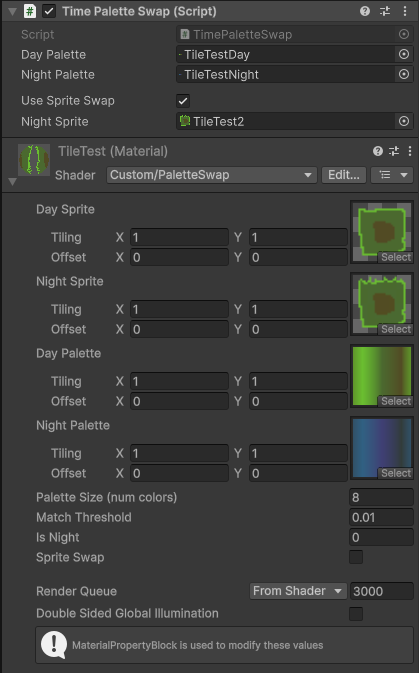
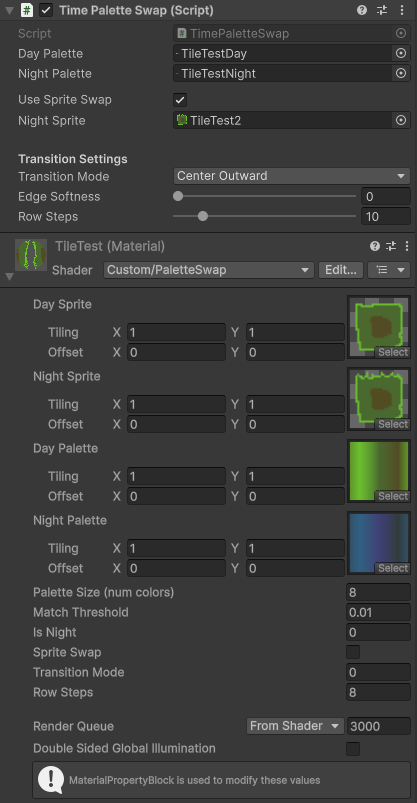
Added Transition Effects Added Image of Manager

diff --git a/PaletteSwapManager.cs b/PaletteSwapManager.cs
@@ -5,20 +5,21 @@ using System;
 public class TimeManager : MonoBehaviour
 {
     public static TimeManager Instance { get; private set; }
-
     public enum TimeState { Day, Night }
-
     public event Action<TimeState> OnTimeSwitched;
 
     [Header("Settings")]
     [SerializeField] private TimeState startingState = TimeState.Day;
     [SerializeField] private Key toggleKey = Key.Tab;
 
-    [Header("Transition (optional)")]
-    [Tooltip("Seconds for a smooth palette lerp. Set to 0 for instant swap.")]
-    [SerializeField] private float transitionDuration = 0f;
+    [Header("Transition")]
+    [Tooltip("Seconds for transition to night. 0 = instant.")]
+    [Range(0f, 10f)] [SerializeField] private float transitionDuration = 0f;
+    [Tooltip("Seconds for transition back to day. 0 = instant. -1 = use Transition Duration.")]
+    [Range(-1f, 10f)] [SerializeField] private float transitionDurationBack = -1f;
 
     public TimeState CurrentState { get; private set; }
+    public event Action<float> OnTransitionProgress;
 
     private bool _transitioning = false;
     private float _transitionTimer = 0f;
@@ -34,15 +35,11 @@ public class TimeManager : MonoBehaviour
         }
         Instance = this;
         DontDestroyOnLoad(gameObject);
-
         CurrentState = startingState;
     }
 
     private void Update()
     {
-        if (Keyboard.current[toggleKey].wasPressedThisFrame)
-            Debug.Log($"[TimeManager] TAB pressed, transitioning: {_transitioning}");
-
         if (Keyboard.current[toggleKey].wasPressedThisFrame && !_transitioning)
             BeginSwitch();
 
@@ -50,11 +47,23 @@ public class TimeManager : MonoBehaviour
             TickTransition();
     }
 
+    private float GetDuration()
+    {
+        if (CurrentState == TimeState.Night)
+        {
+            // Transitioning back to day
+            return transitionDurationBack < 0f ? transitionDuration : transitionDurationBack;
+        }
+        return transitionDuration;
+    }
+
     private void BeginSwitch()
     {
         _targetState = CurrentState == TimeState.Day ? TimeState.Night : TimeState.Day;
 
-        if (transitionDuration <= 0f)
+        float duration = GetDuration();
+
+        if (duration <= 0f)
         {
             // Instant
             ApplyState(_targetState);
@@ -69,12 +78,13 @@ public class TimeManager : MonoBehaviour
 
     private void TickTransition()
     {
+        float duration = GetDuration();
         _transitionTimer += Time.deltaTime;
-        float t = Mathf.Clamp01(_transitionTimer / transitionDuration);
+        float t = Mathf.Clamp01(_transitionTimer / duration);
 
         // Broadcast a normalised progress value so listeners can lerp colours
         OnTransitionProgress?.Invoke(
-            CurrentState == TimeState.Day ? t : 1f - t   // 0 = full day, 1 = full night
+            CurrentState == TimeState.Day ? t : 1f - t  // 0 = full day, 1 = full night
         );
 
         if (t >= 1f)
@@ -87,11 +97,10 @@ public class TimeManager : MonoBehaviour
     private void ApplyState(TimeState newState)
     {
         CurrentState = newState;
+        // Snap the blend weight to a clean value after transition completes
         OnTransitionProgress?.Invoke(newState == TimeState.Night ? 1f : 0f);
         OnTimeSwitched?.Invoke(CurrentState);
     }
-
-    public event Action<float> OnTransitionProgress;
 
     public void SetState(TimeState state)
     {

diff --git a/PaletteSwapper.cs b/PaletteSwapper.cs
@@ -10,6 +10,25 @@ public class PaletteSwapper : MonoBehaviour
     public bool useSpriteSwap = false;
     public Texture2D nightSprite;
 
+    [Space]
+    [Header("Transition Settings")]
+    public TransitionMode transitionMode = TransitionMode.Blend;
+    [Range(0f, 0.5f)] public float edgeSoftness = 0.05f;
+    [Range(1, 64)]    public int rowSteps = 8;
+
+    public enum TransitionMode
+    {
+        Blend            = 0,
+        LeftToRight      = 1,
+        RightToLeft      = 2,
+        TopToBottom      = 3,
+        BottomToTop      = 4,
+        RowByRow         = 5,
+        CenterHorizontal = 6,
+        CenterVertical   = 7,
+        CenterOutward    = 8,
+    }
+
     private Material runtimeMaterial;
 
     private void Start()
@@ -31,6 +50,10 @@ public class PaletteSwapper : MonoBehaviour
         {
             runtimeMaterial.DisableKeyword("_SPRITE_SWAP");
         }
+
+        runtimeMaterial.SetInt("_TransitionMode", (int)transitionMode);
+        runtimeMaterial.SetFloat("_EdgeSoftness", edgeSoftness);
+        runtimeMaterial.SetFloat("_RowSteps", rowSteps);
 
         TimeManager.Instance.OnTimeSwitched += UpdatePalette;
         TimeManager.Instance.OnTransitionProgress += UpdateBlend;

diff --git a/README.md b/README.md
@@ -8,6 +8,8 @@ This project implements a palette swapping system for Unity 2D games, allowing d
 
 <img src="ScreenShots/Shader.png" alt="Shader Setup" width="400">
 
+<img src="ScreenShots/Manager.png" alt="Manager" width="400">
+
 <img src="ScreenShots/ShowOff.gif" alt="Show Off" width="400">
 
 ## Requirements
@@ -19,13 +21,13 @@ This project implements a palette swapping system for Unity 2D games, allowing d
 
 This palette swapping system is designed for pixel-style 2D games (not yet compatible with non-pixel art). It works by replacing colors in a sprite's texture with corresponding colors from a palette texture. Each palette is a 1-pixel high texture where the width represents the number of colors (e.g., 8 colors = 8 pixels wide).
 
-Optionally, sprites can also swap to an entirely different night variant texture during the transition, allowing visual changes beyond color (e.g. a character gaining a sword at night) while the palette blend runs simultaneously.
+Optionally, sprites can swap to an entirely different night variant texture during the transition, allowing visual changes beyond color (e.g. a character gaining a sword at night). Both the palette change and sprite swap are driven by the same transition wipe, so detail pixels on the night sprite appear exactly as the wipe reaches their position.
 
 ### Key Components
 
-1. **PaletteSwap.shader**: A custom shader that performs the color replacement in real-time, with optional night sprite blending.
-2. **PaletteSwapManager.cs**: Manages the day/night state and handles transitions with a configurable duration.
-3. **PaletteSwapper.cs**: Applies the palette swap to individual sprites, with an optional sprite swap mode.
+1. **PaletteSwap.shader**: A custom shader that performs color replacement and optional sprite swapping in real-time, with multiple pixel-by-pixel wipe transition modes.
+2. **TimeManager.cs**: Manages the day/night state and handles transitions with independently configurable to-night and to-day durations.
+3. **TimePaletteSwap.cs**: Applies the palette swap to individual sprites, with optional sprite swap and configurable transition mode per sprite.
 
 ### Palette Format
 
@@ -40,8 +42,8 @@ Optionally, sprites can also swap to an entirely different night variant texture
 
 Add the following files to your Unity project:
 - `PaletteSwap.shader`
-- `PaletteSwapManager.cs`
-- `PaletteSwapper.cs`
+- `TimeManager.cs`
+- `TimePaletteSwap.cs`
 
 ### 2. Create Palette Textures
 
@@ -70,42 +72,64 @@ Add the following files to your Unity project:
    - **Palette Size**: Set to the width of your palettes (number of colors)
    - **Match Threshold**: Adjust sensitivity for color matching (default 0.01)
    - **Is Night**: Controlled by the script (0 = day, 1 = night)
-   - **Sprite Swap**: Toggle to enable night sprite blending (can also be set via the PaletteSwapper script)
+   - **Sprite Swap**: Toggle to enable night sprite swapping (can also be controlled via the TimePaletteSwap script)
 
-### 4. Set Up the Palette Swap Manager
+### 4. Set Up the Time Manager
 
-1. Attach the `PaletteSwapManager` script to any GameObject in your scene (e.g., the player object)
+1. Attach the `TimeManager` script to any GameObject in your scene (e.g., the player object)
 2. Configure settings:
    - **Starting State**: Choose Day or Night
    - **Toggle Key**: Key to switch between day/night (default Tab)
-   - **Transition Duration**: Duration in seconds for the palette blend transition (set to 0 for an instant swap)
+   - **Transition Duration**: Seconds for the day → night transition. `0` = instant
+   - **Transition Duration Back**: Seconds for the night → day transition. `0` = instant. `-1` = use Transition Duration
 
 ### 5. Apply to Sprites
 
 1. Select a SpriteRenderer in your scene
-2. Attach the `PaletteSwapper` script to the same GameObject as the SpriteRenderer
+2. Attach the `TimePaletteSwap` script to the same GameObject as the SpriteRenderer
 3. Assign the Material you created to the SpriteRenderer's Material field
-4. In the `PaletteSwapper` script:
+4. In the `TimePaletteSwap` script:
    - **Day Palette**: Assign the day palette texture (must match the one in the material)
    - **Night Palette**: Assign the night palette texture (must match the one in the material)
    - **Use Sprite Swap**: Check this if the sprite has a night variant texture
    - **Night Sprite**: Assign the night variant texture (only required when Use Sprite Swap is checked)
+   - **Transition Mode**: Choose the wipe direction for this sprite (see Transition Modes below)
+   - **Row Steps**: Number of discrete rows (only relevant for Row By Row mode)
 
-   **Note**: The palettes assigned to the `PaletteSwapper` script must exactly match those in the material (No clue what happens when they are not matching).
+   **Note**: The palettes assigned to the `TimePaletteSwap` script must exactly match those in the material (No clue what happens when they are not matching).
+
+## Transition Modes
+
+Each sprite can use a different transition mode independently. All modes are pixel-by-pixel hard cuts — a pixel switches the instant the wipe reaches it. **Blend** is the only mode that fades all pixels simultaneously.
+
+| Mode | Description |
+|---|---|
+| Blend | All pixels fade simultaneously (smooth, not pixel-by-pixel) |
+| Left To Right | Wipe sweeps from left edge to right |
+| Right To Left | Wipe sweeps from right edge to left |
+| Top To Bottom | Wipe sweeps from top edge to bottom |
+| Bottom To Top | Wipe sweeps from bottom edge to top |
+| Row By Row | Switches in discrete horizontal bands, count set by Row Steps |
+| Center Horizontal | Wipe expands outward from the vertical center line |
+| Center Vertical | Wipe expands outward from the horizontal center line |
+| Center Outward | Wipe expands outward from the center point in all directions |
 
 ## Usage
 
 - Press the configured toggle key (default Tab) to switch between day and night
-- If **Transition Duration** is set to `0`, the palette swaps instantly
-- If **Transition Duration** is greater than `0`, each color in the sprite smoothly interpolates between the day and night palette over the specified duration — this is driven per-frame via the shader's `_IsNight` blend weight (`0` = full day, `1` = full night)
-- Sprites without a night variant work as normal palette-only swaps — simply leave **Use Sprite Swap** unchecked
-- Sprites with **Use Sprite Swap** enabled will cross-fade between the day and night sprite textures in sync with the palette transition
-- Multiple sprites can share the same palette setup by using matching materials and PaletteSwapper configurations
+- If **Transition Duration** is `0`, the swap is instant with no wipe
+- If **Transition Duration** is greater than `0` (up to 10 seconds), the transition wipe plays over that duration
+- Day → night and night → day can have different durations via **Transition Duration Back**. Set to `-1` to mirror the forward duration
+- Sprites without a night variant work as palette-only swaps — leave **Use Sprite Swap** unchecked
+- Sprites with **Use Sprite Swap** enabled swap their texture pixel-by-pixel in sync with the palette wipe, so detail elements on the night sprite appear exactly as the wipe reaches them
+- Multiple sprites can use different transition modes simultaneously — each `TimePaletteSwap` component is configured independently
 
 ## Technical Details
 
-The shader performs color matching by comparing each pixel of the sprite against the day palette colors. When a match is found (within the threshold), it replaces the color with the corresponding color from the night palette, interpolated based on the `_IsNight` value (a float from 0 to 1). This allows smooth per-color blending between palettes during transitions.
+The shader performs color matching by comparing each pixel of the sprite against the day palette colors. When a match is found (within the threshold), it replaces the color with the corresponding color from the night palette based on a per-pixel `weight` value that is either `0` (day) or `1` (night) depending on whether the transition wipe has reached that pixel's UV position.
 
-When sprite swap is enabled via the `_SPRITE_SWAP` shader keyword, the fragment shader first cross-fades between the day and night sprite textures using `_IsNight`, then runs the palette lookup on the blended result. When disabled, the keyword is compiled out entirely with no performance cost.
+All wipe thresholds are normalized to `0–1` so every pixel is guaranteed to switch before `_IsNight` reaches `1.0`. The Center Outward mode normalizes by the maximum corner distance (`0.7072`) to ensure corners are always reached. Blend mode (0) is the only exception — it passes `_IsNight` directly so all pixels interpolate together.
 
-The `PaletteSwapManager` broadcasts two events: `OnTimeSwitched` (fires once when the transition completes) and `OnTransitionProgress` (fires every frame during a transition with the current blend value). The `PaletteSwapper` subscribes to both — `OnTransitionProgress` drives the smooth blend each frame, while `OnTimeSwitched` snaps the value to a clean `0` or `1` at the end.
+When sprite swap is enabled via the `_SPRITE_SWAP` shader keyword, the fragment shader selects between day and night sprite textures using the same per-pixel `weight` as the palette wipe, keeping both in perfect sync. When disabled, the keyword is compiled out entirely with no performance cost.
+
+The `TimeManager` broadcasts two events: `OnTimeSwitched` (fires once when the transition completes) and `OnTransitionProgress` (fires every frame during a transition with the current blend value). The `TimePaletteSwap` subscribes to both — `OnTransitionProgress` drives the wipe each frame, while `OnTimeSwitched` snaps the value to a clean `0` or `1` at the end.
